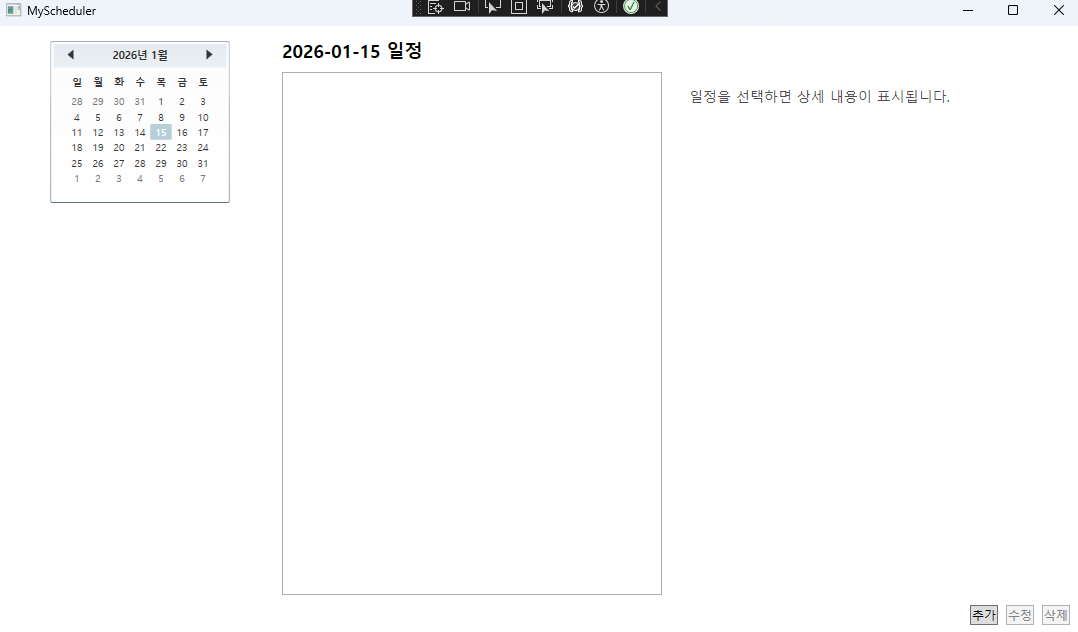
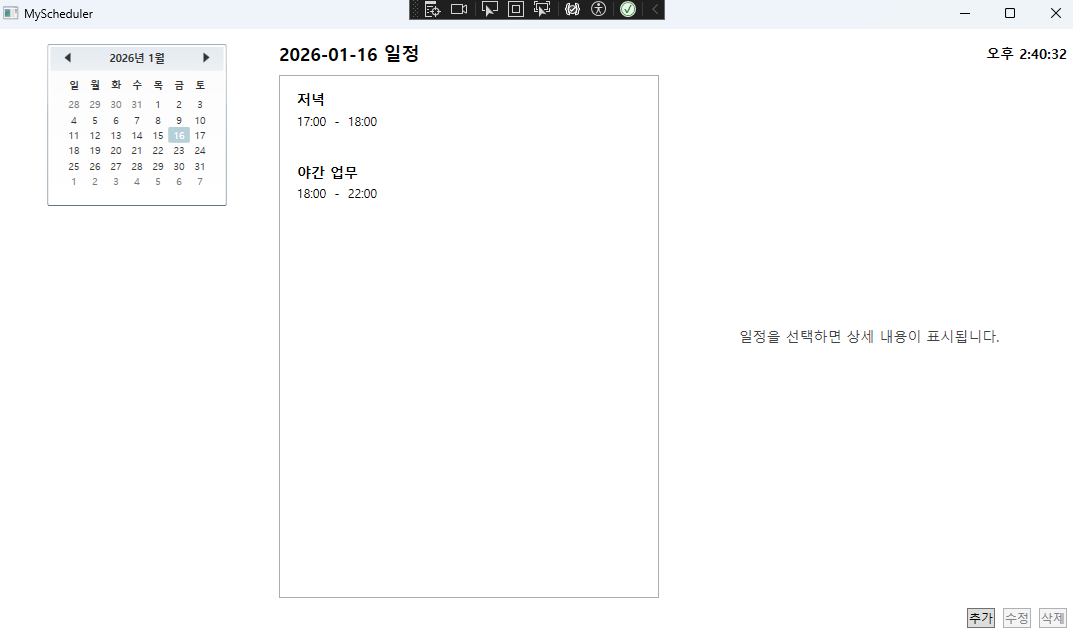
feat: 메인 화면에 현재 시간 표시 및 UTC 환경 차이 개선

diff --git a/MainWindow.xaml b/MainWindow.xaml
@@ -23,8 +23,28 @@
                 <RowDefinition Height="Auto"/>
             </Grid.RowDefinitions>
 
-            <TextBlock Text="{Binding SelectedDate, StringFormat=yyyy-MM-dd 일정}"
-                       FontSize="18" FontWeight="SemiBold" Margin="0,0,0,10"/>
+            <Grid Margin="0,0,0,10">
+                <Grid.ColumnDefinitions>
+                    <ColumnDefinition Width="*" />
+                    <ColumnDefinition Width="Auto" />
+                </Grid.ColumnDefinitions>
+
+                <!-- 왼쪽: 선택 날짜 -->
+                <TextBlock Grid.Column="0"
+               Text="{Binding SelectedDate, StringFormat=yyyy-MM-dd 일정}"
+               FontSize="18"
+               FontWeight="SemiBold"
+               VerticalAlignment="Center"/>
+
+                <!-- 오른쪽: 현재 시간 -->
+                <TextBlock Grid.Column="1"
+               Text="{Binding CurrentTimeText}"
+               FontSize="14"
+               FontWeight="SemiBold"
+               VerticalAlignment="Center"
+               HorizontalAlignment="Right"
+               Margin="12,0,0,0"/>
+            </Grid>
 
             <Grid Grid.Row="1">
                 <Grid.ColumnDefinitions>

diff --git a/ViewModels/MainViewModel.cs b/ViewModels/MainViewModel.cs
@@ -2,15 +2,29 @@
 using CommunityToolkit.Mvvm.Input;
 using MyScheduler.Models;
 using MyScheduler.Services;
+using MyScheduler.Utils;
 using MyScheduler.Views;
+using System;
 using System.Collections.ObjectModel;
+using System.Globalization;
+using System.Threading.Tasks;
 using System.Windows;
+using System.Windows.Threading;
 
 namespace MyScheduler.ViewModels;
 
 public partial class MainViewModel : ObservableObject
 {
     private readonly IScheduleService _scheduleService = new ScheduleService();
+
+    private readonly DispatcherTimer _clockTimer;
+
+    private string _currentTimeText = "";
+    public string CurrentTimeText
+    {
+        get => _currentTimeText;
+        private set => SetProperty(ref _currentTimeText, value);
+    }
 
     public ObservableCollection<ScheduleListItem> Schedules { get; } = new();
 
@@ -95,7 +109,28 @@ public partial class MainViewModel : ObservableObject
     public MainViewModel()
     {
         _ = LoadSchedulesAsync();
+
+        UpdateClock();
+
+        _clockTimer = new DispatcherTimer(DispatcherPriority.Background)
+        {
+            Interval = TimeSpan.FromSeconds(1)
+        };
+        _clockTimer.Tick += (_, __) => UpdateClock();
+        _clockTimer.Start();
     }
+
+    private static readonly CultureInfo KoreanCulture = new("ko-KR");
+
+    private void UpdateClock()
+    {
+        var kstNow = TimeUtil.GetKoreaNow();
+        CurrentTimeText = kstNow.ToString("tt h:mm:ss", KoreanCulture); // (24시 기준)"HH:mm:ss" or "HH:mm"
+    }
+
+    // 종료 시 정리
+    public void StopClock() => _clockTimer.Stop();
+
 
     private bool CanAdd() => !IsBusy;
 

diff --git a/MainWindow.xaml.cs b/MainWindow.xaml.cs
@@ -1,4 +1,5 @@
-using System.Text;
+using MyScheduler.ViewModels;
+using System.Text;
 using System.Windows;
 using System.Windows.Controls;
 using System.Windows.Data;
@@ -11,14 +12,17 @@ using System.Windows.Shapes;
 
 namespace MyScheduler
 {
-    /// <summary>
-    /// Interaction logic for MainWindow.xaml
-    /// </summary>
     public partial class MainWindow : Window
     {
         public MainWindow()
         {
             InitializeComponent();
+
+            Closing += (_, __) =>
+            {
+                if (DataContext is MainViewModel vm)
+                    vm.StopClock();
+            };
         }
     }
 }

diff --git a/Utils/TimeUtil.cs b/Utils/TimeUtil.cs
@@ -1,0 +1,21 @@
+using System;
+
+namespace MyScheduler.Utils;
+
+public static class TimeUtil
+{
+    public static DateTime GetKoreaNow()
+    {
+        // UTC 기준
+        var utcNow = DateTimeOffset.UtcNow;
+        var tz = GetKoreaTimeZoneInfo();
+
+        return TimeZoneInfo.ConvertTime(utcNow, tz).DateTime;
+    }
+
+    private static TimeZoneInfo GetKoreaTimeZoneInfo()
+    {
+        try { return TimeZoneInfo.FindSystemTimeZoneById("Korea Standard Time"); }
+        catch { return TimeZoneInfo.FindSystemTimeZoneById("Asia/Seoul"); }
+    }
+}
